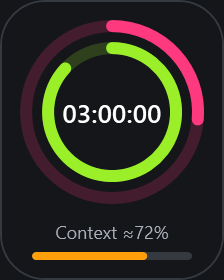
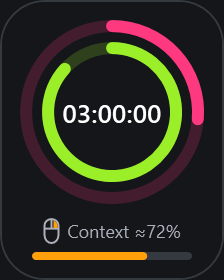
Add fresh project-grouped session menus to context bar and settings

diff --git a/src/CodexUsageWidget/MainWindow.xaml b/src/CodexUsageWidget/MainWindow.xaml
@@ -10,6 +10,7 @@
  ShowInTaskbar="False" Topmost="True" FontFamily="Segoe UI Variable, Segoe UI"
  KeyDown="Window_KeyDown" Loaded="Window_Loaded" Closing="Window_Closing">
  <Window.Resources>
+  <Geometry x:Key="RightClickIcon">M 5,1 C 2.8,1 1,2.8 1,5 L 1,11 C 1,14 3,16 5,16 C 7,16 9,14 9,11 L 9,5 C 9,2.8 7.2,1 5,1 Z M 5,1 L 5,7 M 1,7 L 9,7</Geometry>
   <Style x:Key="ContextBarStyle" TargetType="ProgressBar">
    <Setter Property="Background" Value="#353940"/>
    <Setter Property="Template"><Setter.Value><ControlTemplate TargetType="ProgressBar">
@@ -60,8 +61,11 @@
       <TextBlock x:Name="FullCountdown" Text="{Binding FiveHourCountdown}" Foreground="{DynamicResource WidgetMuted}" FontSize="16" Typography.NumeralStyle="Lining" Typography.NumeralAlignment="Tabular" HorizontalAlignment="Center" Margin="0,8,0,0" ToolTip="{Binding FiveHourReset}" AutomationProperties.Name="{Binding FiveHourAccessible}"/>
      </StackPanel>
     </Grid>
-    <StackPanel Grid.Row="1" VerticalAlignment="Bottom" Margin="12,0,12,2">
-     <TextBlock Text="{Binding ContextLabel}" FontSize="10" Foreground="{DynamicResource WidgetMuted}" Margin="0,0,0,5"/>
+    <StackPanel x:Name="FullContextArea" Grid.Row="1" VerticalAlignment="Bottom" Margin="12,0,12,2" Background="Transparent" MouseRightButtonUp="Context_MouseRightButtonUp" Cursor="Hand">
+     <StackPanel Orientation="Horizontal" Margin="0,0,0,5">
+      <Grid Width="10" Height="16" Margin="0,0,5,0"><Path Data="{StaticResource RightClickIcon}" Stroke="{DynamicResource WidgetMuted}" StrokeThickness="1"/><Path Data="M 6,2 L 6,6 L 8,6 L 8,5 C 8,3.5 7,2.5 6,2" Fill="{DynamicResource ContextAccent}"/></Grid>
+      <TextBlock Text="{Binding ContextLabel}" FontSize="10" Foreground="{DynamicResource WidgetMuted}" VerticalAlignment="Center"/>
+     </StackPanel>
      <ProgressBar Height="5" Value="{Binding ContextPercent, Mode=OneWay}" Foreground="{DynamicResource ContextAccent}" AutomationProperties.Name="{Binding ContextLabel}" Style="{StaticResource ContextBarStyle}"/>
     </StackPanel>
     <Grid Grid.Row="2" Margin="0,6,0,0" AutomationProperties.Name="{Binding FiveHourAccessible}">
@@ -165,8 +169,11 @@
      <controls:RingGauge Width="70" Height="70" Value="{Binding WeeklyAvailable}" StrokeWidth="6" RingBrush="{DynamicResource Lime}" TrackBrush="{DynamicResource LimeTrack}" AutomationProperties.Name="{Binding WeeklyAccessible}"/>
      <TextBlock x:Name="CompactCountdown" Text="{Binding FiveHourCountdown}" FontSize="13" FontWeight="SemiBold" Foreground="{DynamicResource WidgetText}" HorizontalAlignment="Center" VerticalAlignment="Center" Typography.NumeralStyle="Lining" Typography.NumeralAlignment="Tabular" AutomationProperties.Name="{Binding FiveHourAccessible}"/>
     </Grid>
-    <StackPanel VerticalAlignment="Bottom" Margin="6,0,6,0">
-     <TextBlock Text="{Binding ContextLabel}" FontSize="9" HorizontalAlignment="Center" Foreground="{DynamicResource WidgetMuted}" Margin="0,0,0,4"/>
+    <StackPanel x:Name="CompactContextArea" VerticalAlignment="Bottom" Margin="6,0,6,0" Background="Transparent" MouseRightButtonUp="Context_MouseRightButtonUp" Cursor="Hand">
+     <StackPanel Orientation="Horizontal" HorizontalAlignment="Center" Margin="0,0,0,4">
+      <Grid Width="8" Height="13" Margin="0,0,4,0"><Path Data="{StaticResource RightClickIcon}" Stroke="{DynamicResource WidgetMuted}" StrokeThickness="1" Stretch="Fill"/><Path Data="M 6,2 L 6,6 L 8,6 L 8,5 C 8,3.5 7,2.5 6,2" Fill="{DynamicResource ContextAccent}" Stretch="Fill" Width="2" Height="4" HorizontalAlignment="Right" VerticalAlignment="Top" Margin="0,1,1,0"/></Grid>
+      <TextBlock Text="{Binding ContextLabel}" FontSize="9" Foreground="{DynamicResource WidgetMuted}" VerticalAlignment="Center"/>
+     </StackPanel>
      <ProgressBar Height="4" Value="{Binding ContextPercent, Mode=OneWay}" Foreground="{DynamicResource ContextAccent}" AutomationProperties.Name="{Binding ContextLabel}" Style="{StaticResource ContextBarStyle}"/>
     </StackPanel>
    </Grid>

diff --git a/src/CodexUsageWidget/App.xaml b/src/CodexUsageWidget/App.xaml
@@ -90,19 +90,32 @@
    <Setter Property="FontSize" Value="13"/>
    <Setter Property="OverridesDefaultStyle" Value="True"/>
    <Setter Property="Template"><Setter.Value><ControlTemplate TargetType="ContextMenu">
-    <Border Background="{StaticResource Surface}" BorderBrush="#353940" BorderThickness="1" CornerRadius="14" Padding="6"><StackPanel IsItemsHost="True" KeyboardNavigation.DirectionalNavigation="Cycle"/></Border>
+    <Border Background="{StaticResource Surface}" BorderBrush="#353940" BorderThickness="1" CornerRadius="14" Padding="6"><ScrollViewer MaxHeight="420" VerticalScrollBarVisibility="Auto" HorizontalScrollBarVisibility="Disabled"><StackPanel IsItemsHost="True" KeyboardNavigation.DirectionalNavigation="Cycle"/></ScrollViewer></Border>
    </ControlTemplate></Setter.Value></Setter>
   </Style>
   <Style TargetType="MenuItem">
    <Setter Property="Foreground" Value="{StaticResource Text}"/>
    <Setter Property="Template"><Setter.Value><ControlTemplate TargetType="MenuItem">
-    <Border x:Name="MenuRow" Background="Transparent" BorderBrush="Transparent" BorderThickness="1" CornerRadius="8" Padding="12,9" Margin="1">
-     <ContentPresenter ContentSource="Header" RecognizesAccessKey="True"/>
-    </Border>
+    <Grid>
+     <Border x:Name="MenuRow" Background="Transparent" BorderBrush="Transparent" BorderThickness="1" CornerRadius="8" Padding="12,9" Margin="1">
+      <Grid><Grid.ColumnDefinitions><ColumnDefinition Width="Auto"/><ColumnDefinition/><ColumnDefinition Width="Auto"/></Grid.ColumnDefinitions>
+       <Path x:Name="Check" Visibility="Collapsed" Data="M 1,5 L 4,8 L 10,1" Stroke="{StaticResource Lime}" StrokeThickness="1.5" Width="11" Height="9" Margin="0,0,8,0"/>
+       <ContentPresenter Grid.Column="1" ContentSource="Header" RecognizesAccessKey="True"/>
+       <Path x:Name="Arrow" Grid.Column="2" Visibility="Collapsed" Data="M 1,1 L 5,5 L 1,9" Stroke="{StaticResource Muted}" StrokeThickness="1.5" Width="5" Height="9" Margin="16,0,0,0"/>
+      </Grid>
+     </Border>
+     <Popup x:Name="PART_Popup" Placement="Right" IsOpen="{Binding IsSubmenuOpen, RelativeSource={RelativeSource TemplatedParent}}" AllowsTransparency="True" Focusable="False">
+      <Border Background="{StaticResource Surface}" BorderBrush="#353940" BorderThickness="1" CornerRadius="14" Padding="6">
+       <ScrollViewer MaxHeight="420" VerticalScrollBarVisibility="Auto" HorizontalScrollBarVisibility="Disabled"><ItemsPresenter KeyboardNavigation.DirectionalNavigation="Cycle"/></ScrollViewer>
+      </Border>
+     </Popup>
+    </Grid>
     <ControlTemplate.Triggers>
      <Trigger Property="IsHighlighted" Value="True"><Setter TargetName="MenuRow" Property="Background" Value="#282B31"/></Trigger>
      <Trigger Property="IsKeyboardFocused" Value="True"><Setter TargetName="MenuRow" Property="BorderBrush" Value="{StaticResource Lime}"/></Trigger>
      <Trigger Property="IsEnabled" Value="False"><Setter Property="Opacity" Value="0.4"/></Trigger>
+     <Trigger Property="HasItems" Value="True"><Setter TargetName="Arrow" Property="Visibility" Value="Visible"/></Trigger>
+     <Trigger Property="IsChecked" Value="True"><Setter TargetName="Check" Property="Visibility" Value="Visible"/></Trigger>
     </ControlTemplate.Triggers>
    </ControlTemplate></Setter.Value></Setter>
   </Style>

diff --git a/src/CodexUsageWidget/SettingsWindow.xaml b/src/CodexUsageWidget/SettingsWindow.xaml
@@ -103,6 +103,7 @@
     <Button x:Name="ContextSwatch" Grid.Column="1" Tag="ContextColorBox" Style="{StaticResource ActionButton}" Width="28" Height="28" Padding="0" Click="ColorPalette_Click" AutomationProperties.Name="{loc:Tr ContextBar}"/>
     <TextBox x:Name="ContextColorBox" Grid.Column="2" TextChanged="Colors_Changed" MaxLength="7" Padding="8,5" AutomationProperties.Name="{loc:Tr ContextBar}"/>
    </Grid>
+   <Button x:Name="ContextSessionButton" Content="{loc:Tr SelectThread}" Style="{StaticResource ActionButton}" Height="32" Margin="0,0,0,16" Click="ContextSession_Click"/>
    <CheckBox x:Name="TopmostBox" Content="{loc:Tr AboveWindows}"/>
    <CheckBox x:Name="StartupBox" Content="{loc:Tr StartWindows}"/>
 

diff --git a/src/CodexUsageWidget/MainWindow.xaml.cs b/src/CodexUsageWidget/MainWindow.xaml.cs
@@ -43,6 +43,23 @@ public partial class MainWindow : Window
     private readonly QuotaAlerts _alerts = new();
     private QuotaNotificationWindow? _notification;
     private readonly UpdateController _updates;
+    private Task<System.Collections.Generic.IReadOnlyList<ThreadChoice>> LoadContextSessionsAsync() =>
+        _preview ? Task.FromResult<System.Collections.Generic.IReadOnlyList<ThreadChoice>>(
+            [new("demo-chat", "Example conversation")]) :
+        _monitor is null ? Task.FromException<System.Collections.Generic.IReadOnlyList<ThreadChoice>>(new IOException()) :
+        SessionPicker.ReadAllAsync(_monitor.Client);
+
+    private async void Context_MouseRightButtonUp(object sender, MouseButtonEventArgs e)
+    {
+        e.Handled = true;
+        await SessionPicker.OpenAsync((FrameworkElement)sender, LoadContextSessionsAsync, _settings.ContextThreadId, choice =>
+        {
+            _settings.ContextThreadId = choice.Id;
+            _viewModel.SetContext(null);
+            if (!_preview) _settings.Save();
+            _ = RefreshContextAsync();
+        });
+    }
 
     private void ExtraInfo_Click(object sender, RoutedEventArgs e)
     {
@@ -343,12 +360,13 @@ public partial class MainWindow : Window
         try
         {
             _extraInfo?.Close();
-            var settings = new SettingsWindow(_settings, _updates) { Owner = this, Topmost = Topmost };
+            var settings = new SettingsWindow(_settings, _updates, LoadContextSessionsAsync) { Owner = this, Topmost = Topmost };
             if (settings.ShowDialog() != true) return;
             var oldMonitor = _monitor;
             _monitor = null;
             if (oldMonitor is not null) await oldMonitor.DisposeAsync();
             _viewModel.SetBusy(false);
+            if (_settings.ContextThreadId != settings.Result.ContextThreadId) _viewModel.SetContext(null);
             _settings = settings.Result;
             requestedUpdate = settings.UpdateRequested;
             Topmost = _settings.Topmost;
@@ -578,6 +596,48 @@ public partial class MainWindow : Window
             if (ContextUsage.ParseLogLine(log.Replace("100000", "0")) is not null ||
                 ContextUsage.ParseLogLine("{}") is not null || ContextUsage.ParseLogLine("null") is not null)
                 throw new InvalidOperationException("Invalid context metadata must remain unavailable.");
+            var projectJson = "{\"local-projects\":{\"p\":{\"name\":\"Example project\"}},\"thread-project-assignments\":{\"a\":{\"projectId\":\"p\"}}}";
+            File.WriteAllText(Path.Combine(home, ".codex-global-state.json"), projectJson);
+            System.Collections.Generic.IReadOnlyList<ThreadChoice> choices = [new("a", "Русский сеанс"), new("b", "Unassigned chat")];
+            var groups = SessionPicker.GroupThreads(choices, projectJson);
+            if (groups.Count != 2 || groups[0].Name != "Example project" || groups[1].Name != "No project")
+                throw new InvalidOperationException("Project grouping must use membership and keep a separate No project group.");
+            var loads = 0;
+            Task<System.Collections.Generic.IReadOnlyList<ThreadChoice>> LoadChoices()
+            {
+                loads++;
+                return Task.FromResult(choices);
+            }
+            string? selected = null;
+            _viewModel.IsCompact = false; ApplyLayout();
+            var first = (await SessionPicker.OpenAsync(FullContextArea, LoadChoices, "a", choice => selected = choice.Id))!;
+            await Task.Delay(100);
+            Capture(first, Path.Combine(directory, "context-session-projects.png"));
+            var project = (MenuItem)first.Items[0];
+            project.IsSubmenuOpen = true;
+            await Task.Delay(100);
+            var submenu = (Popup)project.Template.FindName("PART_Popup", project);
+            if (!submenu.IsOpen || !((MenuItem)project.Items[0]).IsChecked)
+                throw new InvalidOperationException("Project submenu and selected-session marker must be visible.");
+            Capture((FrameworkElement)submenu.Child, Path.Combine(directory, "context-session-threads.png"));
+            ((MenuItem)project.Items[0]).RaiseEvent(new RoutedEventArgs(MenuItem.ClickEvent));
+            if (selected != "a") throw new InvalidOperationException("Session selection must invoke the matching conversation.");
+            choices = [new("b", "Freshly updated session")];
+            File.WriteAllText(Path.Combine(home, ".codex-global-state.json"), projectJson.Replace("Example project", "Renamed project").Replace("\"a\"", "\"b\""));
+            var second = (await SessionPicker.OpenAsync(FullContextArea, LoadChoices, null, _ => { }))!;
+            var updated = (TextBlock)((MenuItem)((MenuItem)second.Items[0]).Items[0]).Header;
+            if (loads != 2 || updated.Text != "Freshly updated session" ||
+                ((TextBlock)((MenuItem)second.Items[0]).Header).Text != "Renamed project")
+                throw new InvalidOperationException("Each menu opening must load fresh sessions without caching.");
+            second.IsOpen = false;
+            var sessionSettings = new SettingsWindow(new WidgetSettings { ContextThreadId = "a" }, loadSessions: LoadChoices) { Owner = this };
+            sessionSettings.Show();
+            var settingsMenu = (await SessionPicker.OpenAsync(sessionSettings.ContextSessionButton, LoadChoices,
+                sessionSettings.Result.ContextThreadId, choice => sessionSettings.Result.ContextThreadId = choice.Id))!;
+            ((MenuItem)((MenuItem)settingsMenu.Items[0]).Items[0]).RaiseEvent(new RoutedEventArgs(MenuItem.ClickEvent));
+            if (sessionSettings.Result.ContextThreadId != "b")
+                throw new InvalidOperationException("Settings must use the same grouped picker.");
+            sessionSettings.Close();
         }
         finally { Environment.SetEnvironmentVariable("CODEX_HOME", previousHome); }
         File.WriteAllText(Path.Combine(directory, "context-verification.txt"), "PASS: current context, missing metadata, session switching, compaction, partial writes, expanded/compact UI, color preview, persistence, validation and cancellation.");

diff --git a/src/CodexUsageWidget/SessionPicker.cs b/src/CodexUsageWidget/SessionPicker.cs
@@ -1,0 +1,110 @@
+using System;
+using System.Collections.Generic;
+using System.IO;
+using System.Linq;
+using System.Text.Json;
+using System.Threading.Tasks;
+using System.Windows;
+using System.Windows.Controls;
+using CodexUsageWidget.Core;
+
+namespace CodexUsageWidget;
+
+internal static class SessionPicker
+{
+    internal sealed record Group(string Key, string Name, IReadOnlyList<ThreadChoice> Threads);
+
+    internal static IReadOnlyList<Group> GroupThreads(IReadOnlyList<ThreadChoice> threads, string? metadata)
+    {
+        var names = new Dictionary<string, string>(StringComparer.Ordinal);
+        var assignments = new Dictionary<string, string>(StringComparer.Ordinal);
+        try
+        {
+            using var doc = JsonDocument.Parse(metadata ?? "{}");
+            var root = doc.RootElement;
+            if (root.TryGetProperty("local-projects", out var projects) && projects.ValueKind == JsonValueKind.Object)
+                foreach (var project in projects.EnumerateObject())
+                    if (project.Value.TryGetProperty("name", out var name) && name.ValueKind == JsonValueKind.String)
+                        names[project.Name] = name.GetString()!;
+            if (root.TryGetProperty("thread-project-assignments", out var map) && map.ValueKind == JsonValueKind.Object)
+                foreach (var item in map.EnumerateObject())
+                    if (item.Value.ValueKind == JsonValueKind.Object && item.Value.TryGetProperty("projectId", out var id) && id.ValueKind == JsonValueKind.String)
+                        assignments[item.Name] = id.GetString()!;
+        }
+        catch (JsonException) { }
+        return threads.GroupBy(thread => assignments.GetValueOrDefault(thread.Id) ?? "")
+            .Select(group => new Group(group.Key, group.Key.Length == 0 ? Localization.Current["NoProject"] :
+                names.GetValueOrDefault(group.Key) ?? group.Select(thread => thread.Cwd?.TrimEnd('\\', '/').Split('\\', '/').LastOrDefault())
+                    .FirstOrDefault(name => !string.IsNullOrWhiteSpace(name)) ?? group.Key, group.ToArray()))
+            .OrderBy(group => group.Key.Length == 0).ThenBy(group => group.Name, StringComparer.CurrentCultureIgnoreCase).ToArray();
+    }
+
+    internal static async Task<IReadOnlyList<ThreadChoice>> ReadAllAsync(CodexClient client, string? search = null)
+    {
+        var result = new Dictionary<string, ThreadChoice>();
+        var cursors = new HashSet<string>();
+        string? cursor = null;
+        do
+        {
+            var page = await client.ReadThreadsAsync(cursor, search);
+            foreach (var thread in page.Threads) result[thread.Id] = thread;
+            cursor = page.Cursor;
+        } while (cursor is not null && cursors.Add(cursor));
+        return result.Values.ToArray();
+    }
+
+    internal static ContextMenu Build(IReadOnlyList<Group> groups, string? selected, Action<ThreadChoice> choose)
+    {
+        var menu = new ContextMenu { MaxHeight = 440, MaxWidth = 540 };
+        foreach (var group in groups)
+        {
+            var heading = new MenuItem { Header = new TextBlock { Text = group.Name, MaxWidth = 420, TextTrimming = TextTrimming.CharacterEllipsis } };
+            foreach (var thread in group.Threads)
+            {
+                var item = new MenuItem
+                {
+                    Header = new TextBlock { Text = thread.Name, MaxWidth = 460, TextTrimming = TextTrimming.CharacterEllipsis },
+                    ToolTip = thread.Name, IsCheckable = true, IsChecked = thread.Id == selected
+                };
+                item.Click += (_, e) => { e.Handled = true; menu.IsOpen = false; choose(thread); };
+                heading.Items.Add(item);
+            }
+            menu.Items.Add(heading);
+        }
+        if (menu.Items.Count == 0) menu.Items.Add(new MenuItem { Header = Localization.Current["NoThreads"], IsEnabled = false });
+        return menu;
+    }
+
+    internal static async Task<ContextMenu?> OpenAsync(FrameworkElement target, Func<Task<IReadOnlyList<ThreadChoice>>> load,
+        string? selected, Action<ThreadChoice> choose)
+    {
+        var loading = new ContextMenu { PlacementTarget = target };
+        loading.Items.Add(new MenuItem { Header = Localization.Current["Updating"], IsEnabled = false });
+        loading.IsOpen = true;
+        try
+        {
+            var threads = await load();
+            var metadata = await Task.Run(() =>
+            {
+                try
+                {
+                    var home = Environment.GetEnvironmentVariable("CODEX_HOME") ??
+                        Path.Combine(Environment.GetFolderPath(Environment.SpecialFolder.UserProfile), ".codex");
+                    return File.ReadAllText(Path.Combine(home, ".codex-global-state.json"));
+                }
+                catch (Exception e) when (e is IOException or UnauthorizedAccessException) { return null; }
+            });
+            if (!loading.IsOpen) return null;
+            loading.IsOpen = false;
+            var menu = Build(GroupThreads(threads, metadata), selected, choose);
+            menu.PlacementTarget = target;
+            menu.IsOpen = true;
+            return menu;
+        }
+        catch (Exception e) when (e is IOException or UsageUnavailableException or TimeoutException or InvalidOperationException or ObjectDisposedException)
+        {
+            if (loading.IsOpen) { loading.Items.Clear(); loading.Items.Add(new MenuItem { Header = Localization.Current["ConnectionError"], IsEnabled = false }); }
+        }
+        return loading;
+    }
+}

diff --git a/src/CodexUsageWidget/SettingsWindow.xaml.cs b/src/CodexUsageWidget/SettingsWindow.xaml.cs
@@ -17,9 +17,12 @@ public partial class SettingsWindow : WidgetDialogWindow
     private readonly WidgetSettings _originalColors;
     private readonly UpdateController? _updates;
     public bool UpdateRequested { get; private set; }
+    private readonly Func<System.Threading.Tasks.Task<System.Collections.Generic.IReadOnlyList<ThreadChoice>>>? _loadSessions;
 
-    public SettingsWindow(WidgetSettings settings, UpdateController? updates = null)
+    public SettingsWindow(WidgetSettings settings, UpdateController? updates = null,
+        Func<System.Threading.Tasks.Task<System.Collections.Generic.IReadOnlyList<ThreadChoice>>>? loadSessions = null)
     {
+        _loadSessions = loadSessions;
         _updates = updates;
         _originalLanguage = Localization.Current.Language;
         _originalColors = new WidgetSettings { FiveHourColor = settings.FiveHourColor, WeeklyColor = settings.WeeklyColor, BackgroundColor = settings.BackgroundColor, ContextColor = settings.ContextColor, ContextThreadId = settings.ContextThreadId };
@@ -56,9 +59,17 @@ public partial class SettingsWindow : WidgetDialogWindow
             UpdateStatus.Text = Localization.Current.Format("UpdateInstalledVersion", UpdateController.CurrentVersion.ToString(3), "Preview");
         }
         _initialized = true;
+        ContextSessionButton.IsEnabled = loadSessions is not null;
         Colors_Changed(this, null!);
         Loaded += (_, _) => WindowPlacement.KeepInside(this, Owner is null ? null : WindowPlacement.ScreenFor(Owner));
         Closed += (_, _) => { if (DialogResult != true) { Localization.Current.SetLanguage(_originalLanguage); WidgetTheme.Apply(_originalColors); } };
+    }
+
+    private async void ContextSession_Click(object sender, RoutedEventArgs e)
+    {
+        if (_loadSessions is null) return;
+        await SessionPicker.OpenAsync(ContextSessionButton, _loadSessions, Result.ContextThreadId,
+            choice => { Result.ContextThreadId = choice.Id; ContextSessionButton.Content = choice.Name; });
     }
 
     private void Colors_Changed(object sender, TextChangedEventArgs e)

diff --git a/src/CodexUsageWidget/ExtraInfoWindow.xaml.cs b/src/CodexUsageWidget/ExtraInfoWindow.xaml.cs
@@ -204,21 +204,16 @@ public partial class ExtraInfoWindow : WidgetDialogWindow
         { Note(ThreadRows, _text["ConnectionError"]); }
         finally { _threadBusy = false; ChooseThread.IsEnabled = true; MoreThreads.IsEnabled = true; }
     }
-    private async void ChooseThread_Click(object sender, RoutedEventArgs e)
+    private void ChooseThread_Click(object sender, RoutedEventArgs e)
     {
-        if (_threads.Count == 0) await LoadThreadsAsync(null); else ShowThreadMenu();
+        ShowThreadMenu();
     }
-    private void ShowThreadMenu()
+    private async void ShowThreadMenu()
     {
-        var menu = new ContextMenu { PlacementTarget = ChooseThread, MaxHeight = 360, MaxWidth = 550 };
-        if (_threads.Count == 0) menu.Items.Add(new MenuItem { Header = _text["NoThreads"], IsEnabled = false });
-        foreach (var choice in _threads)
-        {
-            var item = new MenuItem { Header = new TextBlock { Text = choice.Name, MaxWidth = 480, TextTrimming = TextTrimming.CharacterEllipsis }, ToolTip = choice.Name };
-            item.Click += async (_, _) => await SelectThreadAsync(choice);
-            menu.Items.Add(item);
-        }
-        menu.IsOpen = true;
+        await SessionPicker.OpenAsync(ChooseThread,
+            () => _client is null ? Task.FromResult<IReadOnlyList<ThreadChoice>>([new("demo-chat", "Example conversation")]) :
+                SessionPicker.ReadAllAsync(_client, ThreadSearch.Text.Trim()),
+            _selectedThread?.Id, async choice => { if (!_lifetime.IsCancellationRequested) await SelectThreadAsync(choice); });
     }
     internal async Task SelectThreadAsync(ThreadChoice choice)
     {

diff --git a/src/CodexUsageWidget.Core/ExtraInfo.cs b/src/CodexUsageWidget.Core/ExtraInfo.cs
@@ -77,14 +77,14 @@ public sealed record ExtraInfoSnapshot(string? AccountType, string? Plan, bool? 
     }
 }
 
-public sealed record ThreadChoice(string Id, string Name);
+public sealed record ThreadChoice(string Id, string Name, string? Cwd = null);
 public sealed record ThreadPage(IReadOnlyList<ThreadChoice> Threads, string? Cursor)
 {
     public static ThreadPage Parse(JsonElement payload) => new(ExtraJson.Array(payload, "data")?
         .Where(row => !string.IsNullOrWhiteSpace(ExtraJson.Text(row, "id")))
         .Select(row => new ThreadChoice(ExtraJson.Text(row, "id")!,
             new[] { ExtraJson.Text(row, "name"), ExtraJson.Text(row, "preview"), ExtraJson.Text(row, "id") }
-                .First(value => !string.IsNullOrWhiteSpace(value))!)).ToArray() ?? [],
+                .First(value => !string.IsNullOrWhiteSpace(value))!, ExtraJson.Text(row, "cwd"))).ToArray() ?? [],
         ExtraJson.Text(payload, "nextCursor"));
 }
 

diff --git a/README.md b/README.md
@@ -155,3 +155,9 @@ Quota alerts appear as the app’s own dark popup above the taskbar at the botto
 Select a conversation in **Extra info**. Its estimated context usage appears below the rings in both views. Settings → Colors → Context changes the bar color (default orange). The selected conversation ID is saved. This follows the manually selected conversation, not the foreground Codex tab.
 
 The widget reads the last 256 KiB of that conversation's local journal under CODEX_HOME/sessions (default ~/.codex/sessions), extracting the latest token_count event's last_token_usage.total_tokens and model_context_window. Updates are checked every two seconds while the widget is visible; unchanged files are not reread. Missing metadata shows an em dash. Values are estimates at the latest reported turn, not live token streaming or a guaranteed auto-compaction threshold.
+
+### Session picker
+
+Right-click the context label or bar to choose a session. The mouse icon marks this gesture. Project submenus and the localized No project group use the same shared picker in Settings and Extra info. The selected session has a checkmark. Settings selection takes effect when saved and is discarded on Cancel.
+
+Every opening refetches all pages of thread/list and rereads CODEX_HOME/.codex-global-state.json for local project names and explicit thread-project assignments. This internal desktop metadata format may change; missing assignments fall back to No project. A thread's working directory alone does not establish project membership. No session-list cache is retained between openings.

diff --git a/docs/architecture.md b/docs/architecture.md
@@ -113,3 +113,7 @@ The non-activation hook follows [Microsoft's WM_MOUSEACTIVATE contract](https://
 ContextMonitor caches the selected session journal path and file length. Selection changes invalidate all readings; asynchronous results are applied only if the selection still matches. File reads run off the UI thread, use shared access and bounded tails, and ignore partial or malformed JSON lines. ContextUsage parses only token_count metadata and uses last_token_usage rather than cumulative usage. Context updates can decrease after compaction. The physical window remains clamped through the existing placement behavior; compact height increases to accommodate the horizontal bar.
 
 Run scripts/release.ps1 -ContextOnly for feature-only English verification and both package variants. It exercises synthetic session changes, missing metadata, compaction, partial writes, both widget layouts and color settings without running unrelated regressions. No published release is changed without -Publish.
+
+### Project session selection
+
+SessionPicker provides a common asynchronous menu for the context area, Settings and Extra info. Each opening fetches fresh paginated thread summaries and local desktop project metadata. Groups use project IDs, avoiding accidental merges of projects with identical display names; explicit unassigned sessions remain in No project even if they have a working directory. Membership metadata is read only and never modified. Reopening while a prior request is pending cannot reopen a dismissed loading menu.

diff --git a/CHANGELOG.md b/CHANGELOG.md
@@ -1,5 +1,13 @@
 # Changelog
 
+## 0.12.0 — 2026-10-22 (local build)
+
+- Added right-click session selection on the context bar in expanded and compact views, with a small mouse icon highlighting the right button.
+- Grouped sessions into project submenus and a localized No project group. The same picker is available in Settings and Extra info.
+- Every menu opening fetches all session pages again and rereads project membership metadata; no list or project-group cache is used.
+- Added shared dark submenu styling, selected-session checkmarks and scrolling for long lists.
+- Verified only the affected context/picker and UTF-8 functionality, then built Portable and Lite locally.
+
 ## 0.11.2 — 2026-10-22 (local build)
 
 - Fixed garbled Cyrillic in conversation titles by explicitly decoding app-server JSONL as UTF-8 instead of the Windows code page. All redirected protocol streams use UTF-8 without a BOM.

diff --git a/DESIGN.md b/DESIGN.md
@@ -237,3 +237,5 @@ The notification is a 380-pixel-wide unowned popup with an 18-pixel rounded outl
 ### Context bar
 
 A slim orange horizontal bar sits immediately beneath the rings in both views, with a concise localized context percentage above it. Expanded view uses a 5-DIP track; compact view uses 4 DIP and a 9-DIP label. Unknown context uses an empty track and an em dash. The context color follows the existing swatch/hex settings controls with preview and cancel semantics. The existing ring diameters remain unchanged.
+
+The context label has a small outlined mouse with its right button in the context accent. Right-clicking either the label or track opens fresh project submenus. Both levels share the app's matte dark menu surface, rounded row highlights, drawn disclosure arrows and selected-session checkmarks. Settings and Extra info reuse the same menu.
